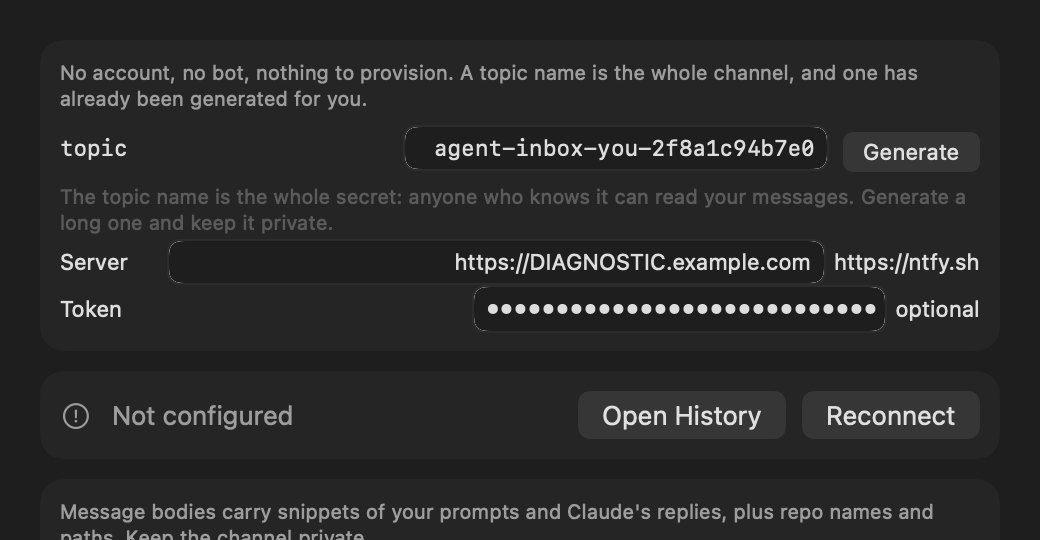
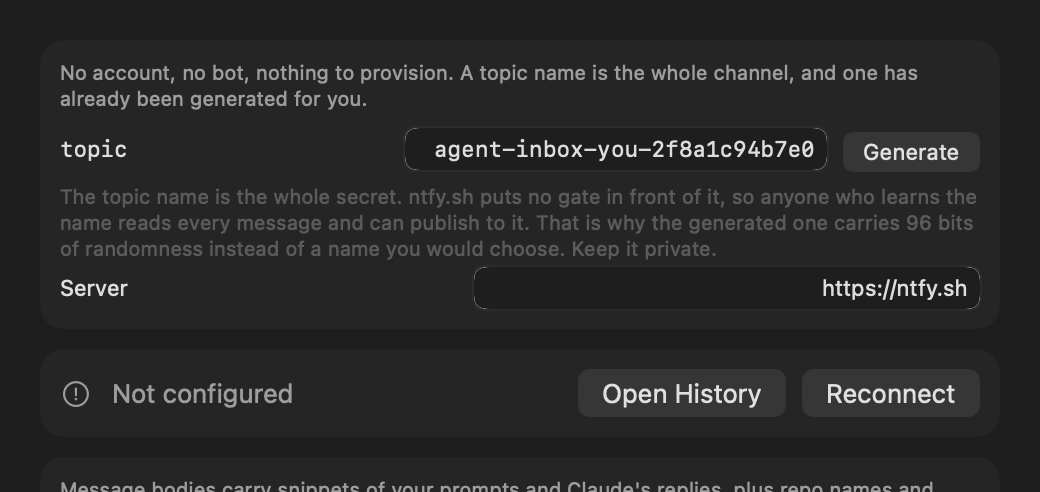
Say which thing is actually protecting the messages
The Transport pane told everyone the topic name was the only secret. That is
true on ntfy.sh, where a topic needs no account, and false on a self-hosted
server that requires a token: there the server decides access and the topic is
only a name. Someone reading the pane on their own deny-all server was being
told to guard something that grants nothing, and told nothing about the
credential that does.

Three states now, chosen by server and token: the public server, a self-hosted
one reached anonymously, and one with a token set. The anonymous case also says
what its failure looks like, because a server that refuses you produces an inbox
that simply never fills. The intro line stops claiming there is nothing to
provision once you are pointing at your own server. Same table in the README.

The screenshot harness drew whatever the machine had left in the test process's
defaults, which is how a stray "DIAGNOSTIC.example.com" reached docs/. It also
read the real ntfy token out of the login keychain, which the test process
shares with the installed app. Pinning the server to ntfy.sh fixes both: that
branch does not render the token row at all. Assigning the token there would
have been worse than it looks, since the setter writes through to that keychain
item.

diff --git a/mac/Sources/AgentInbox/Models/AppSettings.swift b/mac/Sources/AgentInbox/Models/AppSettings.swift
@@ -164,6 +164,61 @@ final class AppSettings {
 
     nonisolated static let publicNtfyServer = "https://ntfy.sh"
 
+    /// What actually protects the messages, which is not the same answer on
+    /// every server and is the thing this pane used to get wrong.
+    ///
+    /// On ntfy.sh a topic needs no account: the name *is* the channel, so the
+    /// name is also the password. A self-hosted server can require a token, and
+    /// once one is set the server decides who gets in and the topic is only a
+    /// name. Reached without a token, a self-hosted server is back to the first
+    /// case.
+    enum AccessModel {
+        case topicIsTheSecret
+        case tokenIsTheSecret
+    }
+
+    nonisolated static func accessModel(server: String, token: String) -> AccessModel {
+        // The token field is hidden while the server is ntfy.sh, so a value
+        // left behind by a previous server must not change what is claimed
+        // here. Emptiness is tested the way NtfyTransport tests it, so the pane
+        // and the request agree on whether a token is being sent.
+        guard server != publicNtfyServer, !token.isEmpty else { return .topicIsTheSecret }
+        return .tokenIsTheSecret
+    }
+
+    /// The sentence under the topic field. Three states, because "keep the
+    /// topic secret" is wrong advice on a server that authenticates and
+    /// useless advice on one that then refuses you.
+    nonisolated static func topicExplanation(server: String, token: String) -> String {
+        switch accessModel(server: server, token: token) {
+        case .tokenIsTheSecret:
+            return "The token is the secret here, not the topic. The server checks it on every "
+                + "read and every publish, so where it denies anonymous access the topic name "
+                + "grants nothing on its own. It is kept in the Keychain, and mirrored to "
+                + "~/.agent-inbox/ntfy-token so the senders on this Mac can read it."
+        case .topicIsTheSecret where server != publicNtfyServer:
+            return "No token, so this server is being asked anonymously and the topic name is "
+                + "still the whole secret. If the server does not allow anonymous access, "
+                + "nothing arrives: the status below turns red with the HTTP code after two "
+                + "failed polls."
+        case .topicIsTheSecret:
+            return "The topic name is the whole secret. ntfy.sh puts no gate in front of it, so "
+                + "anyone who learns the name reads every message and can publish to it. That "
+                + "is why the generated one carries 96 bits of randomness instead of a name you "
+                + "would choose. Keep it private."
+        }
+    }
+
+    /// The line above the topic field. "Nothing to provision" is true of
+    /// ntfy.sh and is the first thing a self-hosted server contradicts.
+    nonisolated static func transportIntro(server: String) -> String {
+        server == publicNtfyServer
+            ? "No account, no bot, nothing to provision. A topic name is the whole channel, "
+                + "and one has already been generated for you."
+            : "Pointing at your own ntfy. The topic still names the channel; what that server "
+                + "requires is what decides who can reach it."
+    }
+
     nonisolated static func randomNtfyTopic() -> String {
         let user = NSUserName().lowercased().filter { $0.isLetter || $0.isNumber }
         var bytes = [UInt8](repeating: 0, count: 12)

diff --git a/mac/Tests/AgentInboxTests/AccessModelTests.swift b/mac/Tests/AgentInboxTests/AccessModelTests.swift
@@ -1,0 +1,56 @@
+import XCTest
+@testable import AgentInbox
+
+/// The Transport pane told everyone the topic name was the only thing
+/// protecting their messages. On a server that authenticates, that is both
+/// wrong and the opposite of reassuring.
+final class AccessModelTests: XCTestCase {
+    private let selfHosted = "https://ntfy.example.com:8443"
+
+    func testOnThePublicServerTheTopicIsTheSecret() {
+        XCTAssertEqual(
+            AppSettings.accessModel(server: AppSettings.publicNtfyServer, token: ""),
+            .topicIsTheSecret)
+    }
+
+    func testASelfHostedServerReachedAnonymouslyIsNoDifferent() {
+        XCTAssertEqual(
+            AppSettings.accessModel(server: selfHosted, token: ""),
+            .topicIsTheSecret)
+    }
+
+    func testATokenMovesTheSecretOffTheTopic() {
+        XCTAssertEqual(
+            AppSettings.accessModel(server: selfHosted, token: "tk_abc"),
+            .tokenIsTheSecret)
+    }
+
+    func testATokenLeftOverFromAPreviousServerChangesNothingOnNtfySh() {
+        // The field is hidden while the server is ntfy.sh, so claiming a token
+        // protects them would point at something they cannot see.
+        XCTAssertEqual(
+            AppSettings.accessModel(server: AppSettings.publicNtfyServer, token: "tk_abc"),
+            .topicIsTheSecret)
+    }
+
+    func testTheThreeStatesEachGetTheirOwnExplanation() {
+        let publicServer = AppSettings.topicExplanation(
+            server: AppSettings.publicNtfyServer, token: "")
+        let anonymous = AppSettings.topicExplanation(server: selfHosted, token: "")
+        let authenticated = AppSettings.topicExplanation(server: selfHosted, token: "tk_abc")
+
+        XCTAssertEqual(Set([publicServer, anonymous, authenticated]).count, 3)
+        XCTAssertTrue(publicServer.contains("ntfy.sh"))
+        XCTAssertTrue(anonymous.contains("No token"))
+        XCTAssertTrue(authenticated.contains("token is the secret"))
+    }
+
+    func testTheIntroStopsClaimingNothingHasToBeProvisioned() {
+        // True of ntfy.sh, and the first thing a self-hosted server contradicts.
+        XCTAssertTrue(
+            AppSettings.transportIntro(server: AppSettings.publicNtfyServer)
+                .contains("No account, no bot"))
+        XCTAssertFalse(
+            AppSettings.transportIntro(server: selfHosted).contains("No account, no bot"))
+    }
+}

diff --git a/mac/Sources/AgentInbox/Views/WelcomeView.swift b/mac/Sources/AgentInbox/Views/WelcomeView.swift
@@ -148,7 +148,7 @@ struct TransportPicker: View {
         @Bindable var settings = model.settings
 
         VStack(alignment: .leading, spacing: 10) {
-            Text("No account, no bot, nothing to provision. A topic name is the whole channel, and one has already been generated for you.")
+            Text(AppSettings.transportIntro(server: settings.ntfyServer))
                 .font(.system(size: 10))
                 .foregroundStyle(.secondary)
                 .fixedSize(horizontal: false, vertical: true)
@@ -165,7 +165,8 @@ struct TransportPicker: View {
                     }
                     .controlSize(.small)
                 }
-                Text("The topic name is the whole secret: anyone who knows it can read your messages. Generate a long one and keep it private.")
+                Text(AppSettings.topicExplanation(
+                    server: settings.ntfyServer, token: settings.ntfyToken))
                     .font(.system(size: 10))
                     .foregroundStyle(.tertiary)
                     .fixedSize(horizontal: false, vertical: true)

diff --git a/mac/Tests/AgentInboxTests/ScreenshotTests.swift b/mac/Tests/AgentInboxTests/ScreenshotTests.swift
@@ -102,6 +102,15 @@ final class ScreenshotTests: XCTestCase {
         let model = AppModel()
         model.settings.transport = .ntfy
         model.settings.ntfyTopic = "agent-inbox-you-2f8a1c94b7e0"
+        // Pin the server, or the Transport pane draws whatever this machine
+        // last left in the test process's defaults. It already committed a
+        // stray "DIAGNOSTIC.example.com" into docs/ once. On ntfy.sh the token
+        // row is not rendered at all, which also keeps the developer's real
+        // token out of a public screenshot: AppSettings reads it from the login
+        // keychain, which the test process shares with the installed app.
+        // Never assign ntfyToken here. Its setter writes through to that same
+        // keychain item, so a screenshot run would delete the real one.
+        model.settings.ntfyServer = AppSettings.publicNtfyServer
         if !items.isEmpty { model.store.add(items) }
         return model
     }

diff --git a/README.md b/README.md
@@ -100,20 +100,34 @@ Restart any running Claude Code sessions there too.
 **There is nothing to choose and nothing to set up. Skip this section.**
 
 [ntfy.sh](https://ntfy.sh) is a free, open-source pub/sub service. There is no signup, no
-bot and no webhook: a channel is just a topic name. Anyone who knows the topic can read it,
-so the topic is effectively the password, which is why the app generates a long random one
-rather than letting you invent a short one. Keep it private.
+bot and no webhook: a channel is just a topic name.
 
-What ntfy does not give you is history. The public server caches messages for about 12
+That is also the security model, so it is worth being exact about who holds the secret:
+
+| Server | What keeps other people out |
+|---|---|
+| ntfy.sh | The topic name, and nothing else. |
+| Your own, no token | The topic name, and nothing else. |
+| Your own, token set | The token. On a server running `auth-default-access: deny-all`, knowing the topic grants nothing. |
+
+On the first two rows the topic name *is* the password. That is why the app generates
+`agent-inbox-<you>-<24 hex digits>` for you, 96 bits of randomness, instead of letting you
+invent a short one: anyone who learns it reads every message you send and can publish to
+it. Keep it private. The Transport pane says which of the three you are in.
+
+What ntfy.sh does not give you is history. The public server caches messages for about 12
 hours, so the menubar inbox is your record, not the feed.
 
 [Self-hosting ntfy](https://docs.ntfy.sh/install/) changes both of those. Set `NTFY_SERVER`
-to your instance, keep as much history as you want, and if it runs `auth-default-access:
-deny-all`, set a token so the topic name is no longer the only thing protecting your
-messages. The app takes one in **Settings**, or with
+to your instance and keep as much history as you want. If it runs `auth-default-access:
+deny-all`, set a token. The app takes one in **Settings**, or with
 `--configure --transport ntfy --topic <t> --server <url> --token <tk>`. It is stored in the
 Keychain and mirrored to `~/.agent-inbox/ntfy-token` for the bash senders. Leave it empty
 for ntfy.sh, which has no accounts.
+
+Without a token, a self-hosted server that refuses anonymous requests looks like an inbox
+that simply never fills. Nothing arrives, and the status in the Transport pane turns red
+with the HTTP code after two failed polls.
 
 
 
